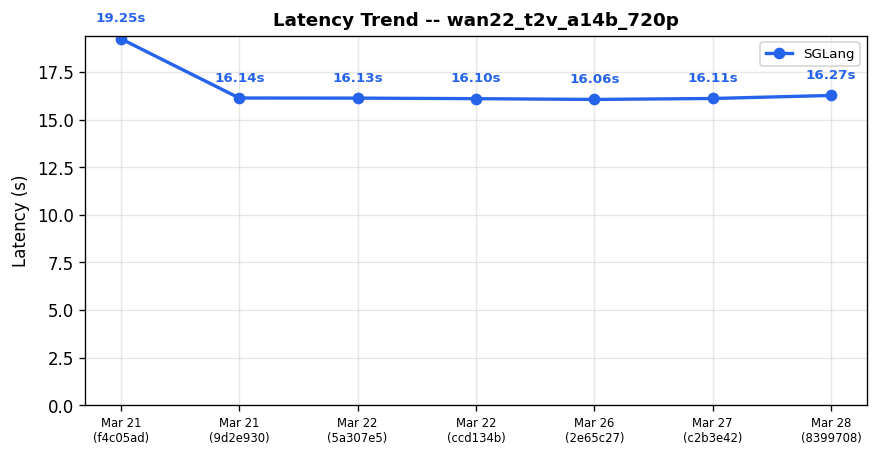
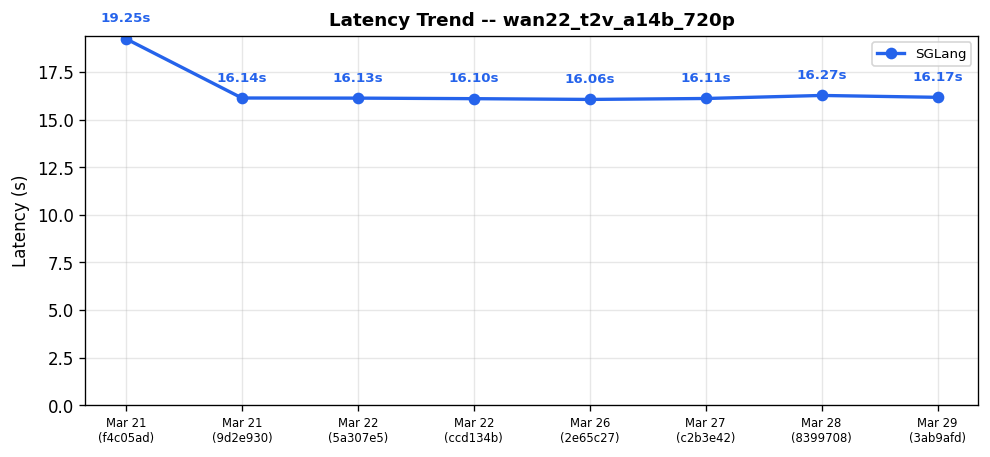
Diffusion comparison results for run 23697967641 (#531)

diff --git a/diffusion-comparisons/dashboard.md b/diffusion-comparisons/dashboard.md
@@ -1,38 +1,32 @@
 # Diffusion Cross-Framework Performance Dashboard
 
-*Generated: Mar 28 | Commit: `8399708`*
-
-> [!WARNING]
-> **Performance Regression Detected**
->
-> - **qwen_image_edit_2511** (sglang): 29.64s -> 31.67s (+6.9%)
-
+*Generated: Mar 29 | Commit: `3ab9afd`*
 
 ## Cross-Framework Performance Comparison
 
 | Model | Risk | sglang (s) |
 |-------|------|---------|
-| FLUX.1-dev | ✅ | **6.68** |
-| FLUX.2-dev | ✅ | **22.76** |
-| Qwen-Image-2512 | ✅ | **13.71** |
-| Qwen-Image-Edit-2511 | ⚠ | **31.67** |
+| FLUX.1-dev | ✅ | **6.70** |
+| FLUX.2-dev | ✅ | **22.90** |
+| Qwen-Image-2512 | ✅ | **13.19** |
+| Qwen-Image-Edit-2511 | ✅ | **29.52** |
 | Z-Image-Turbo | ✅ | **0.93** |
-| Wan2.2-T2V-A14B-Diffusers | ✅ | **16.27** |
-| Wan2.2-TI2V-5B-Diffusers | ✅ | **62.22** |
-| Wan2.2-I2V-A14B-Diffusers | ✅ | **10.04** |
+| Wan2.2-T2V-A14B-Diffusers | ✅ | **16.17** |
+| Wan2.2-TI2V-5B-Diffusers | ✅ | **62.17** |
+| Wan2.2-I2V-A14B-Diffusers | ✅ | **9.04** |
 
 ## SGLang Performance Trend (Last 7 Runs)
 
 | Date | Commit | flux1_dev_t2i_1024 (s) | flux2_dev_t2i_1024 (s) | qwen_image_2512_t2i_1024 (s) | qwen_image_edit_2511 (s) | zimage_turbo_t2i_1024 (s) | wan22_t2v_a14b_720p (s) | wan22_ti2v_5b_720p (s) | wan22_i2v_a14b_720p (s) | Trend |
 |------|--------|---------|---------|---------|---------|---------|---------|---------|---------|-------|
+| Mar 29 | `3ab9afd` | 6.70 | 22.90 | 13.19 | 29.52 | 0.93 | 16.17 | 62.17 | 9.04 | :left_right_arrow:  :left_right_arrow:  :arrow_down:  :arrow_down:  :left_right_arrow:  :left_right_arrow:  :left_right_arrow:  :arrow_down: |
 | Mar 28 | `8399708` | 6.68 | 22.76 | 13.71 | 31.67 | 0.93 | 16.27 | 62.22 | 10.04 | :left_right_arrow:  :left_right_arrow:  :arrow_up:  :arrow_up:  :left_right_arrow:  :left_right_arrow:  :left_right_arrow:  :left_right_arrow: |
 | Mar 27 | `c2b3e42` | 6.70 | 22.94 | 13.18 | 29.64 | 0.93 | 16.11 | 62.21 | 10.04 | :left_right_arrow:  :left_right_arrow:  :left_right_arrow:  :left_right_arrow:  :left_right_arrow:  :left_right_arrow:  :left_right_arrow:  :left_right_arrow: |
 | Mar 26 | `2e65c27` | 6.77 | 22.75 | 13.31 | 29.84 | 0.94 | 16.06 | 62.23 | 10.04 | :left_right_arrow:  :left_right_arrow:  :arrow_down:  :left_right_arrow:  :arrow_down:  :left_right_arrow:  :left_right_arrow:  :left_right_arrow: |
 | Mar 22 | `ccd134b` | 6.69 | 22.58 | 13.58 | 29.97 | 1.96 | 16.10 | 62.17 | 10.04 | :left_right_arrow:  :left_right_arrow:  :arrow_down:  :left_right_arrow:  :arrow_down:  :left_right_arrow:  :left_right_arrow:  :left_right_arrow: |
 | Mar 22 | `5a307e5` | 6.70 | 22.62 | 14.09 | 30.14 | 2.01 | 16.13 | 62.20 | 10.04 | :left_right_arrow:  :left_right_arrow:  :arrow_up:  :left_right_arrow:  :arrow_up:  :left_right_arrow:  :left_right_arrow:  :arrow_up: |
 | Mar 21 | `9d2e930` | 6.77 | 22.77 | 13.71 | 30.39 | 1.93 | 16.14 | 62.15 | 9.03 | :arrow_down:  :arrow_down:  :arrow_down:  :arrow_down:  :arrow_down:  :arrow_down:  :arrow_down:  :arrow_down: |
-| Mar 21 | `f4c05ad` | 7.25 | 23.89 | 14.66 | 33.42 | 2.04 | 19.25 | 70.19 | 10.04 | :left_right_arrow:  :left_right_arrow:  :arrow_down:  :left_right_arrow:  :arrow_down:    :left_right_arrow: |
-| Mar 20 | `57f358a` | 7.13 | 24.05 | 17.18 | 32.91 | 2.33 | N/A | N/A | 10.04 | -- |
+| Mar 21 | `f4c05ad` | 7.25 | 23.89 | 14.66 | 33.42 | 2.04 | 19.25 | 70.19 | 10.04 | -- |
 
 ### Latency Trend: flux1_dev_t2i_1024
 
@@ -72,15 +66,6 @@
 ### Latency Trend: wan22_i2v_a14b_720p
 
 ![Latency Trend wan22_i2v_a14b_720p](https://raw.githubusercontent.com/sglang-bot/sglang-ci-data/main/diffusion-comparisons/charts/latency_wan22_i2v_a14b_720p.png)
-
-
-> [!CAUTION]
-> **Action Required — Performance Alert**
->
-> The following cases need attention:
-> - qwen_image_edit_2511: SGLang regression +6.2% vs 3-run avg (31.67s vs 29.82s)
->
-> cc @mickqian @bbuf @yhyang201
 
 
 ---
